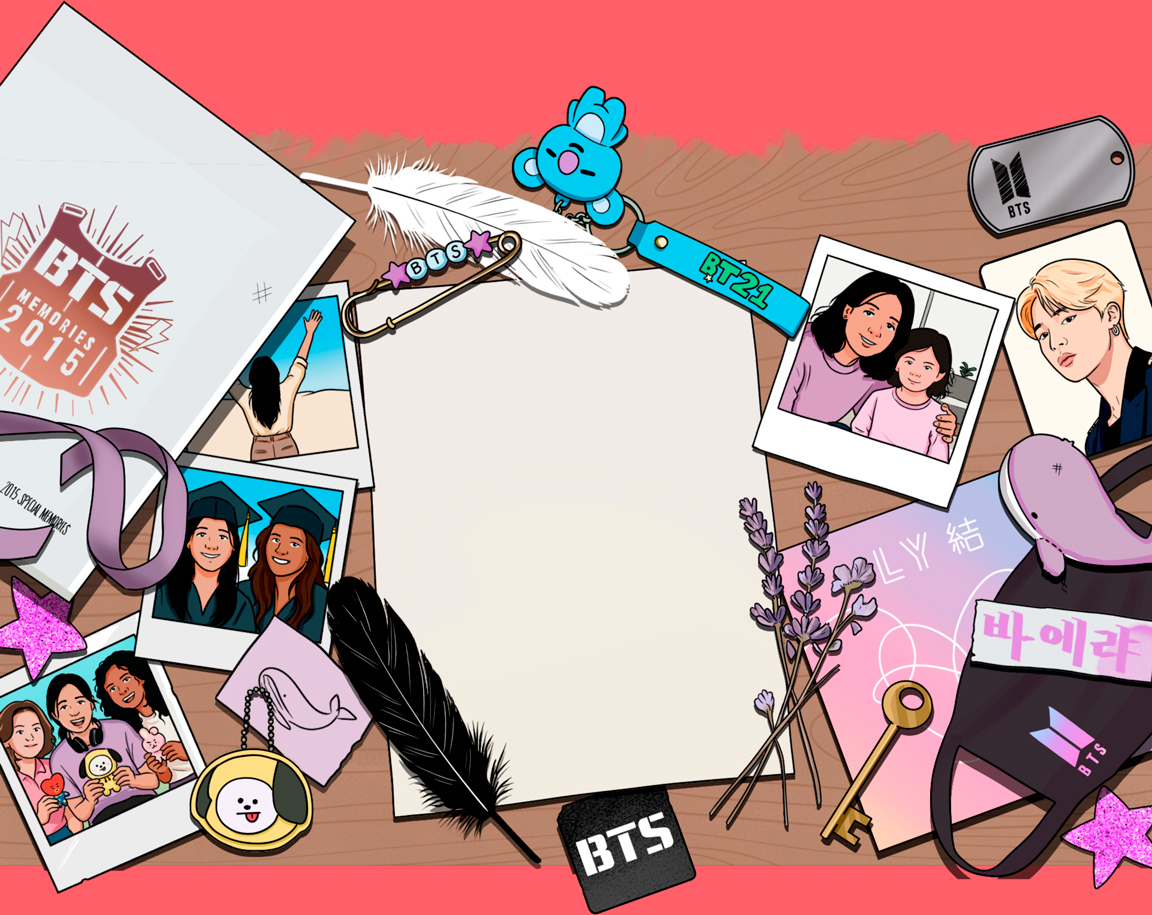
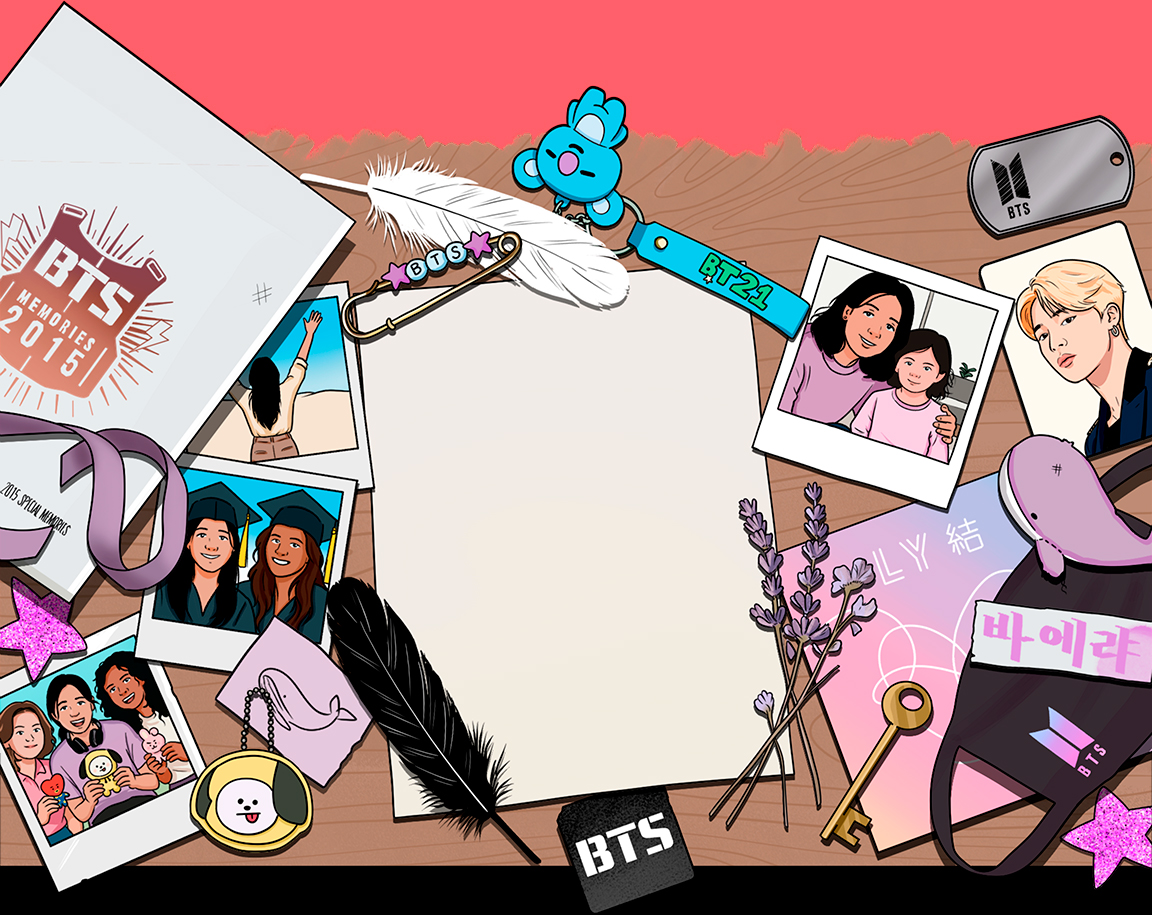
deja tu mensaje update

diff --git a/css/styles.css b/css/styles.css
@@ -2266,7 +2266,7 @@ img { display: block; max-width: 100%; user-select: none; -webkit-user-drag: non
                 .trivia-nivel-subtitulo{ font-size: 1rem; padding: 12px 20px; }
             }
 .main-deja-tu-mensaje{
-    background-color: #F65464;
+    background-color: #ff606b;
     margin-top: -80px;
     position: relative;
 }
@@ -2310,7 +2310,7 @@ img { display: block; max-width: 100%; user-select: none; -webkit-user-drag: non
             .mensaje-label{
                 color: var(--ink);
                 display: block;
-                font: 700 1.15rem/1.3 'Prelo Semibold', sans-serif;
+                font: 1.2rem/1.3 'Monigue Regular';
                 margin: 0 0 10px;
             }
             .mensaje-input{
@@ -2336,7 +2336,7 @@ img { display: block; max-width: 100%; user-select: none; -webkit-user-drag: non
                 color: #fff;
                 cursor: pointer;
                 display: block;
-                font: 700 1.2rem/1.3 'Prelo Bold', sans-serif;
+                font: 1.6rem/1.3 'Monigue Regular';
                 margin: 6px auto 0;
                 padding: 18px 50px;
                 transition: transform .15s ease;
@@ -2379,13 +2379,16 @@ img { display: block; max-width: 100%; user-select: none; -webkit-user-drag: non
             .mensaje-disclaimer-texto b{
                 color: var(--ink);
                 display: block;
-                font: 1.3rem/1.3 'Prelo Bold', sans-serif;
+                font: 1.5rem/1.3 'Monigue Regular';
                 margin: 0 0 10px;
             }
             .mensaje-disclaimer-texto p{
                 color: var(--ink);
-                font: 1rem/1.5 'Prelo Book', sans-serif;
+                font: 1rem/1.5 'Prelo Medium', sans-serif;
             }
+                .mensaje-disclaimer-texto p span{
+                    font-family: 'Prelo Bold';
+                }
 
         .mensaje-btn-ver{
             background-color: #00CBEF;
@@ -2394,10 +2397,9 @@ img { display: block; max-width: 100%; user-select: none; -webkit-user-drag: non
             color: #000;
             cursor: pointer;
             display: block;
-            font: 700 1.2rem/1.3 'Prelo Bold', sans-serif;
-            letter-spacing: .5px;
+            font: 1.8rem/1.2 'Monigue Regular';
             margin: 50px auto 0;
-            padding: 18px 40px;
+            padding: 9px 40px;
             text-transform: uppercase;
             transition: transform .15s ease;
         }
@@ -2406,7 +2408,7 @@ img { display: block; max-width: 100%; user-select: none; -webkit-user-drag: non
     .mensaje-mural{
         align-items: center;
         background-image: url('../img/deja-tu-mensaje/bg-deja-tu-mensaje.jpg');
-        background-position: center;
+        background-position: center top;
         background-size: cover;
         display: flex;
         gap: 24px;
@@ -2414,36 +2416,37 @@ img { display: block; max-width: 100%; user-select: none; -webkit-user-drag: non
         margin-top: 60px;
         min-height: 620px;
         padding: 60px 20px;
+        height: 135vh;
     }
         .mensaje-flecha{
-            background-color: var(--ink);
+            background: transparent;
             border: none;
-            border-radius: 50%;
-            color: #fff;
+            /*border-radius: 50%;*/
+            color: #000;
             cursor: pointer;
             flex: 0 0 auto;
-            font-size: 2rem;
+            font-size: 3rem;
             height: 48px;
             line-height: 1;
             width: 48px;
         }
             .mensaje-flecha:hover{ transform: scale(1.08); }
         .mensaje-carta{
-            background-color: #F4EFE3;
+            /*background-color: #F4EFE3;*/
             border-radius: 6px;
-            box-shadow: 0 10px 30px rgba(0,0,0,.25);
+            /*box-shadow: 0 10px 30px rgba(0,0,0,.25);*/
             max-width: 420px;
             padding: 40px 32px;
             text-align: center;
         }
             .mensaje-carta-texto{
                 color: var(--ink);
-                font: 1.3rem/1.5 'Prelo Semibold', sans-serif;
+                font: 1.4rem/1.5 'Monigue Regular';
                 margin: 0 0 20px;
             }
             .mensaje-carta-autor{
                 color: var(--red);
-                font: 700 1.1rem/1.3 'Prelo Bold', sans-serif;
+                font: 1.1rem/1.3 'Monigue Regular';
             }
 
         @media (max-width: 900px){

diff --git a/index-bts.html b/index-bts.html
@@ -1267,11 +1267,11 @@
 
             <div class="mensaje-disclaimer">
                 <span class="mensaje-disclaimer-icono">
-                    <img src="./img/flecha-circular.png" alt="">
+                    <img src="./img/flecha-circular-blanca.png" alt="">
                 </span>
                 <div class="mensaje-disclaimer-texto">
                     <b>Disclaimer:</b>
-                    <p>Una selección editorial de los mensajes enviados será publicada en el especial impreso de <b>El Comercio</b> con motivo de la visita de la banda a Lima. Al enviar tu texto, autorizas su edición por motivos de espacio y su difusión en nuestras plataformas impresas y digitales.</p>
+                    <p>Una selección editorial de los mensajes enviados será publicada en el especial impreso de <span>El Comercio</span> con motivo de la visita de la banda a Lima. Al enviar tu texto, autorizas su edición por motivos de espacio y su difusión en nuestras plataformas impresas y digitales.</p>
                 </div>
             </div>
 
